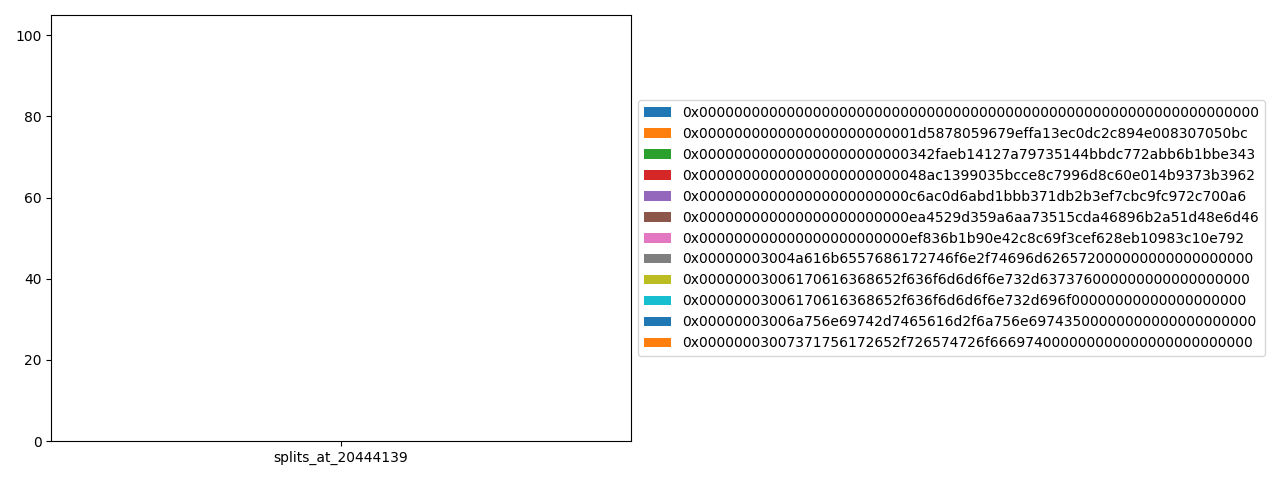
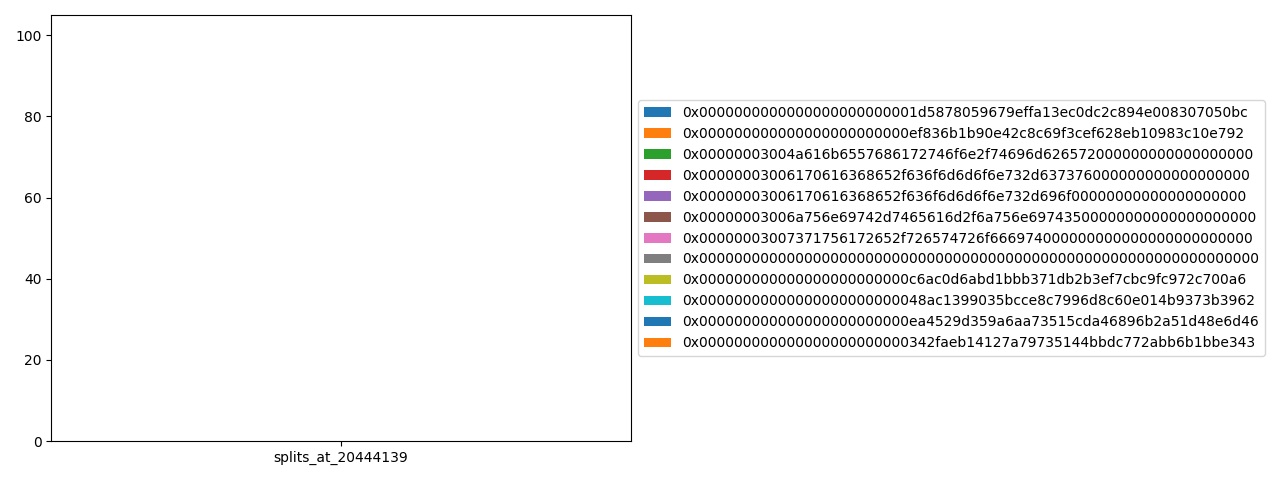
feat: sort values based on the most recent split event
#55

Changed region(s): [[0.5938, 0.2188, 1.0, 0.75]]

diff --git a/drips/charts/generate-charts.py b/drips/charts/generate-charts.py
@@ -68,6 +68,12 @@ for repo in repos:
     print('splits_csv.columns:', splits_csv.columns)
     print('splits_csv.columns[1:]:', splits_csv.columns[1:])
 
+    # Sort values based on the most recent split event
+    last_column = splits_csv.columns[-1]
+    print('last_column:', last_column)
+    splits_csv = splits_csv.sort_values(by=last_column, ascending=False)
+    print('splits_csv: \n', splits_csv)
+
     splits_set_event_blocks = splits_csv.columns[1:].values
     print('splits_set_event_blocks:', splits_set_event_blocks)
 
